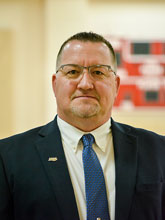
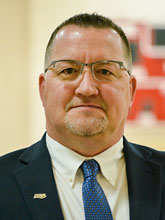
Update coach denson's photo.

diff --git a/_contacts/donnie-denson.md b/_contacts/donnie-denson.md
@@ -3,7 +3,7 @@ name: Donnie Denson
 contacts_title: Head Coach
 contacts_sport: women's basketball
 display_order: 1
-portrait: uploads/10-ddenson-coach.jpg
+portrait: uploads/denson-dsc_0632.jpg
 phone: 815‑802‑8614
 email: ddenson@kcc.edu
 ---
